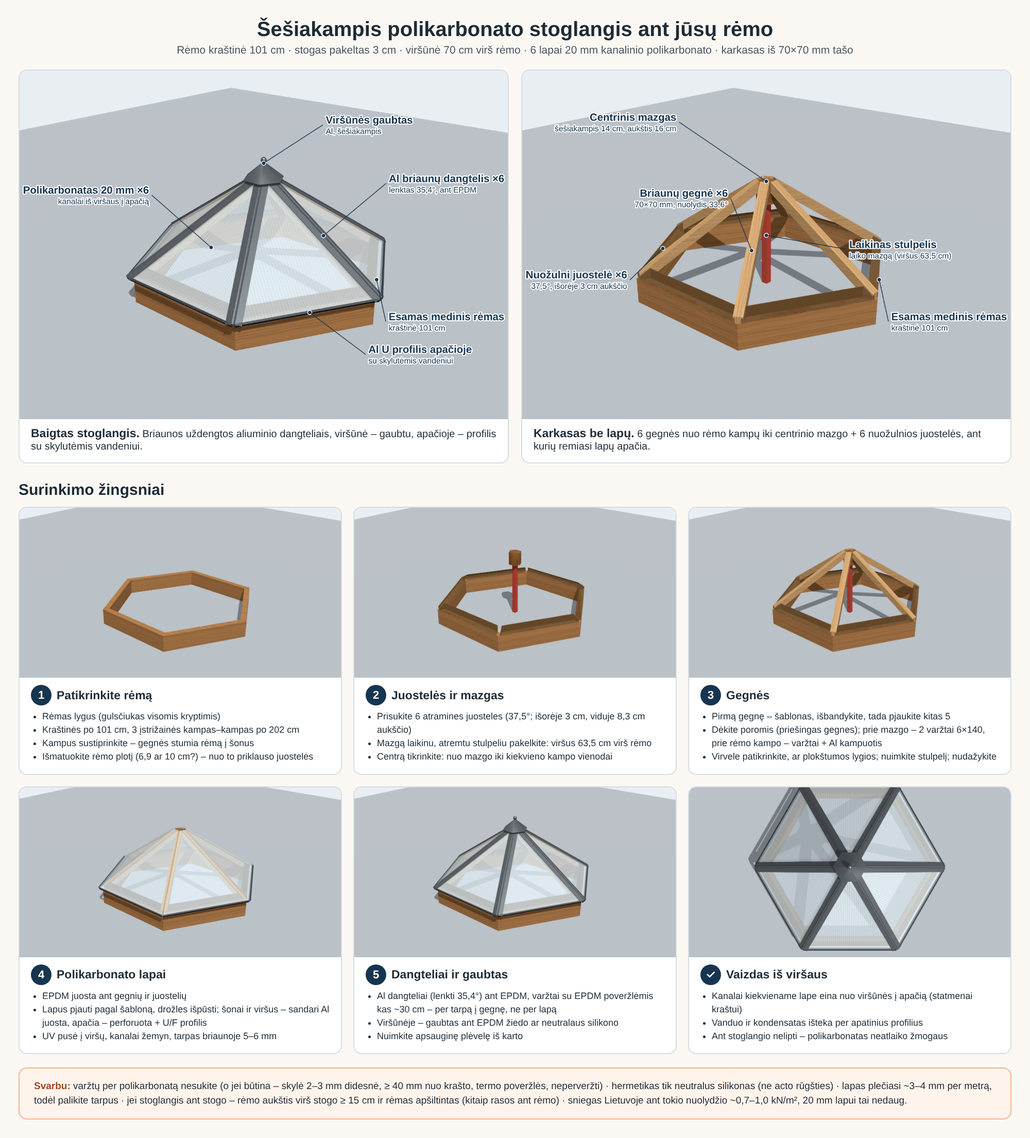
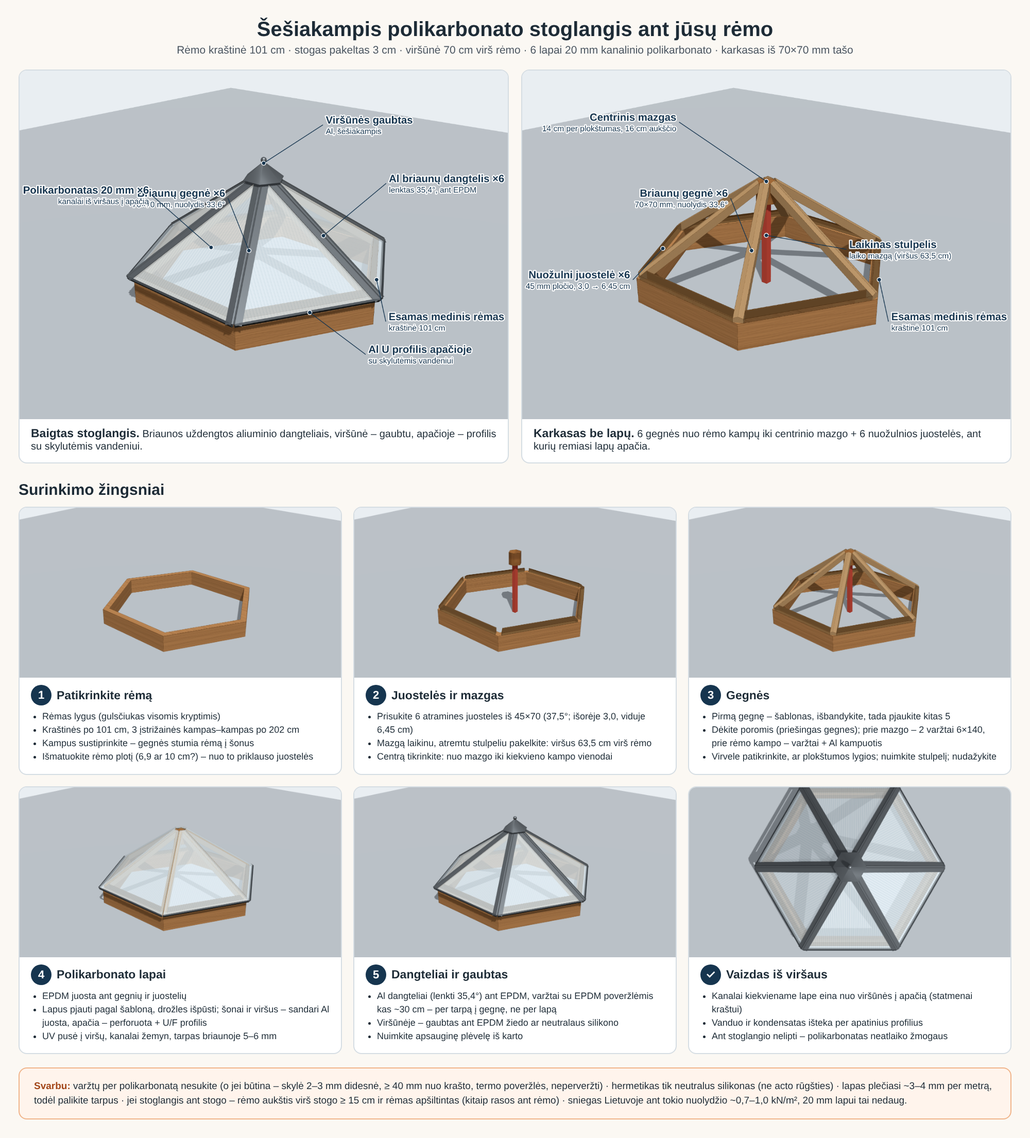
Stoglangis: patikrinta 3D modeliu, mazgai iš arti, pirkinių sąrašas, ataskaita
Claude-Session: https://claude.ai/code/session_01NZt1Gnh6jbXepyZAwSUY5b

diff --git a/reports/Šešiakampis polikarbonato stoglangis.md b/reports/Šešiakampis polikarbonato stoglangis.md
@@ -1,0 +1,185 @@
+# Pakelta 3 cm plokštuma sutvarko šešiakampį stoglangį
+
+Stoglangį statykite kaip šešių briaunų piramidę. Šešios obliuotos 70×70 mm briaunų gegnės, kurių nuolydis **33,56°**, o viršus nusklembtas po **17,7°** į abi puses, remiasi į šešiakampį centrinį mazgą (14 cm per plokštumas, 16 cm aukščio). Visa lakštų apačios plokštuma pakeliama **3 cm** virš esamo rėmo. Šis vienas sprendimas leidžia 70×70 gegnei atsisėsti 6,1 cm ilgio gulsčiu pjūviu tiksliai ant rėmo kampo, be gilios išpjovos, o karnizo atrama tampa paprasta trapecine juostele iš 45×70 lentjuostės (45 mm pločio, 3,0 cm išorėje, 6,45 cm viduje). Plokštumų nuolydis yra **37,45°**. Lakštai – šeši lygiašoniai trikampiai (pagrindas **104,5 cm**, aukštinė **114,0 cm**, šoninės **125,4 cm**), kanalai eina išilgai aukštinės, UV pusė nukreipta į išorę. Visi šeši trikampiai telpa viename 2100×6000 mm lakšte (3 eilės po 2 trikampius, sunaudojama ~3,42 m ilgio), todėl užtenka **vieno lakšto už ~327,79 €**. Kadangi kanalai eina išilgai aukštinės, kiekvieno kanalo viršutinis galas baigiasi įstrižame briaunos pjūvyje. Todėl briaunos ir viršūnė užklijuojamos kieta aliuminio juosta. Kvėpuojančią juostą su aliuminio U/F profiliu ir drenažo skylutėmis gauna tik pagrindas. Lakštas niekur negręžiamas: jį prispaudžia 35,4° kampu sulenkti aliuminio briaunų dangteliai ant EPDM, prisukti per 5–6 mm tarpą tarp lakštų į gegnes, o viršūnę dengia ~Ø32 cm šešiakampis gaubtas, prisuktas į mazgą. Lakštų apačia viršūnėje bus **70 cm** virš rėmo, ne 67 cm, bet kampai lieka tokie, kokių norėjote. Jei 67 cm būtina, kampai pasikeičia ~1°. Sniego apkrova tokiam nuolydžiui – **0,72 kN/m² (I zona) arba 0,96 kN/m² (II zona)**, todėl tarpinių gegnių nereikia. Silpniausia vieta yra rėmo kampai: gegnės juos stumia į išorę 0,3–0,5 kN jėga. Prieš pirmą pjūvį būtina permatuoti rėmo plotį: iš matmenų 101/93 cm išeina 6,9 cm, o jūs rašėte 10 cm.
+
+> **Apie šaltinius ir skaičius.** Tyrimo metu tiesioginis puslapių atidarymas buvo užblokuotas (e-plastena.lt, plaskolite.com, palram.com, brettmartin.com, YouTube ir kt.). Todėl **visi čia cituojami žiniatinklio šaltiniai matyti tik per paieškos rezultatų ištraukas (snippets), o ne perskaityti visi**. Kainas, likučius, profilių matmenis, garantiją ir normų reikšmes prieš perkant patikrinkite patys. Visi geometrijos dydžiai (kampai, ilgiai, pjūviai) perskaičiuoti savarankiškai ir sutikrinti dviem būdais. Kur skaičius yra mūsų skaičiavimas ar išvada, o ne šaltinio teiginys, tai pasakyta tekste.
+
+## Trys centimetrai pakėlimo pasodina gegnę tiksliai ant rėmo
+
+Rėmą laikome taisyklingu šešiakampiu. Išorinė kraštinė 101 cm kartu yra ir apibrėžtinio apskritimo spindulys R. Išorinė apotema lygi 87,47 cm, vidinė kraštinė – 93 cm. Iš to išeina, kad rėmo sienelės plotis statmenai kraštinei yra **6,93 cm**, o kampe, išilgai įstrižainės, – 8 cm. Jūsų „briaunos kampas ~33°“ yra būtent briaunos gegnės nuolydis: tan = 67/101, taigi **33,56°**. Plokštumos (trikampio) nuolydis skaičiuojamas iki apotemos: tan = 67/87,47, taigi **37,45°**. Vadinasi, lakštai bus statesni už briaunas. Nusklembimo kampą duoda bendroji formulė tan β = sin(briaunos nuolydis) / tan(plano kampas) ([Raftertools](http://raftertools.com/TimberFraming/Angles/c5.html); [SBE Builders daugiakampių gegnių lentelės](https://www.sbebuilders.com/tools/rafter-tables/Polygon_Rafter_Tables.pdf)). Šešiakampio plano kampas tarp briaunos ir karnizo yra 60°, todėl β = atan(0,5528/1,732) = **17,70°**. Iš čia dvisienis kampas tarp gretimų plokštumų yra 180° − 2·17,7° = **144,6°**, o dangtelio lenkimo kampas – **35,4°**. Abu skaičius dar patikrinome per plokštumų normalių vektorius. Briaunos linija nuo išorinio rėmo kampo iki viršūnės yra **121,2 cm**, plokštumos aukštinė nuo karnizo vidurio iki viršūnės – **110,2 cm**. Viena praktinė pastaba (mūsų išvada): amerikietiško stalių kampainio skalė „HIP/VAL“ ir „17 colių“ briaunos žingsnis skirti stačiakampiams stogo kampams. Šešiakampiui jie netinka, todėl kampus nustatykite tiesiogiai laipsniais.
+
+Kampai patys nepasako, kur gegnė guli. Visi aukščiau pateikti dydžiai aprašo atskaitos plokštumą P, t. y. lakštų apačią. Ji eina per nusklembtų gegnių keterą ir karnizo juostelių nuožulnas. Jei P karnizo linija sutaptų su rėmo viršumi, 70 mm gegnė turėtų įsirėžti į rėmą gilia išpjova. Praktikai įspėja, kad ilgai į vidų išvestas atraminis pjūvis skelia gegnę ([GreenBuildingAdvisor](https://www.greenbuildingadvisor.com/question/hip-rafter-confusion)). Be to, briaunos aukštis virš atramos turi atitikti plokštumų aukštį, kitaip plokštumos nesusilygina ([ContractorTalk](https://www.contractortalk.com/threads/hips-and-valleys.61506/)). Todėl visa plokštuma pakeliama **h0 = 3 cm**. 70×70 gegnės vertikalus aukštis yra 7/cos 33,56° = **8,4 cm**. Jos apatinė briauna pasiekia rėmo viršų ties **92,9 cm** spinduliu, t. y. praktiškai ties vidiniu rėmo kampu (93 cm). Gulsčias atraminis pjūvis eina nuo 92,9 iki 99 cm spindulio, taigi yra **6,1 cm ilgio** ir visas guli ant rėmo. Ties vidiniu kampu gegnė lieka viso aukščio: jos šonai ties vidiniais rėmo kraštais yra dar 12 mm virš rėmo. Uodegos pjūvis ties **99 cm** parinktas sąmoningai. Būtent ten gegnės šoninės plokštumos kerta išorinius rėmo kraštus (40,4 mm nuo kampo), todėl gegnės galas ir abiejų gretimų juostelių išoriniai kampai susitinka viename taške. Taip po lakštu susidaro uždaras perimetras. Plokštuma P ties uodega yra 4,3 cm aukštyje (tai ir yra uodegos vertikalaus pjūvio aukštis), o ties rėmo išoriniu kraštu – 3,0 cm (juostelės išorinis aukštis). Kaina už visa tai – lakštų apačia viršūnėje pakyla iki **70 cm** virš rėmo. Kampai nesikeičia.
+
+Jei bendras 67 cm aukštis yra principinis, kilimą sumažinkite iki 64 cm, o h0 = 3 cm palikite. Logika išlieka ta pati, tik kampai pasikeičia apie 1° (žr. lentelę; mūsų skaičiavimas). Su 70×95 gegne konstrukcija irgi veikia, bet tai jau kitas pjovimo sąrašas. Jos vertikalus aukštis 11,4 cm, todėl esant h0 = 3 cm ji ties vidiniu kampu kirstų rėmą apie 3 cm gylio. Tada reikia arba V formos išpjovos aplink vidinį kampą, arba h0 ≈ 5 cm (juostelė apie 5/10 cm, viršūnė apie 72 cm). Paprasčiausias derinys lieka **70×70 ir 3 cm**. Toliau visoje ataskaitoje naudojamas pagrindinis projektas.
+
+| Dydis | Pagrindinis projektas (viršūnė 70 cm) | Variantas (viršūnė 67 cm) |
+|---|---|---|
+| Kilimas nuo karnizo linijos iki viršūnės | 67 cm | 64 cm |
+| Briaunos nuolydis | 33,56° | 32,36° |
+| Plokštumos nuolydis | 37,45° | 36,19° |
+| Nusklembimas (kiekvienai pusei) | 17,7° | 17,2° |
+| Dvisienis / dangtelio lenkimo kampas | 144,6° / 35,4° | 145,7° / 34,3° |
+| Gegnės keteros / apatinės briaunos ilgis | 110,4 / 103,0 cm | 108,9 / 101,4 cm |
+| Atraminis pjūvis / uodegos aukštis | 6,1 / 4,3 cm | 6,3 / 4,3 cm |
+| Juostelė (45 mm pločio, bet kokiam rėmui) | 3,0 / 6,45 cm | 3,0 / 6,3 cm |
+| Mazgo viršus ne aukščiau kaip | 63,8 cm (daryti 63,5) | 61,1 cm (daryti ~60,8) |
+| Lakšto aukštinė / šoninė | 114,0 / 125,4 cm | 112,1 / 123,7 cm |
+
+## Šešios 70×70 gegnės ir šešiakampis mazgas sudaro visą karkasą
+
+### Gegnės skerspjūvį lemia lakšto atrama, ne stiprumas
+
+Mūsų konservatyviu skaičiavimu net 45×70 gegnė būtų apkrauta vos ~3,3 MPa, o 70×70 – ~2,1 MPa. Taigi stiprumas skerspjūvio nelemia. Jį lemia plotis, ant kurio turi atsiremti du 20 mm lakštai. Birchwood P501 sistema skirta 50 mm pločio gegnėms, o briaunoje gamintojas rekomenduoja 60 mm gegnę ([Birchwood P501](https://www.birchwoodtrading.co.uk/SiteDownloads/Rafter%20Glazing%20Bar%20Systems/P501%20Rafter%20Glazing%20Bar%20System/P501%20System%20Installation.pdf)). Palram reikalauja bent **20 mm** lakšto užlaidos ant atramos, kai lakštas iki 1,0 m pločio, ir 25–30 mm, kai platesnis ([Palram SUNLITE montavimo vadovas](https://www.eplastics.com/pdf/multiwall_Installation_manual.pdf)). Ant 70 mm gegnės kiekvienam lakštui tenka 35 mm minus 3 mm tarpas, t. y. **~32 mm** atramos. To pakanka ir EPDM juostai, ir dangtelio varžtų linijai. 45 mm gegnė dviem 20 mm lakštams per siaura. Rinkitės kameroje džiovintą, obliuotą C24/KVH spygliuočių medieną. Tinka vario pagrindo impregnantais apdorota pušis (pvz., Wolmanit CX, NTR A klasė, skirta lauko sąlygoms ([EPD](https://environdec.com/library/epd31829))) arba maumedis. Visas plokštumas, ypač galų medieną, nudažykite dar prieš stiklinimą.
+
+Gegnę darykite tokia tvarka. Pirmiausia nusklembkite visą ruošinį: diskinės staklės, 17,7° pakreiptas diskas, gegnė guli ant šono, o po pirmo praėjimo apverčiama galais. Centre lieka ketera, o šonų viršutinės briaunos būna **11 mm žemiau** keteros (matuojant statmenai viršui). Rankinis būdas – nubrėžti centro liniją ir 11 mm žymes ant šonų, tada nuobliuoti elektriniu obliumi. Antras žingsnis – abu galiniai vertikalūs pjūviai, abu lygiagretūs. Skersavimo staklėse nustatykite **33,6° pasukimą nuo statmens**, tada pjūvis su gegnės briauna sudaro 56,4°. Gegnę guldykite ant šono, plokščia apatine plokštuma prie atramos, ne nusklembta viršutine (mūsų patarimas). Atstumas tarp pjūvių išilgai keteros – **110,4 cm**, išilgai apatinės briaunos kontrolinis matmuo – **103,0 cm**. Prieš tai patikrinkite, ar jūsų staklės perpjauna 70 mm aukštį. Trečias žingsnis – atraminis pjūvis. Ant uodegos vertikalaus pjūvio pažymėkite **4,3 cm** žemyn nuo keteros (ant šono tai apie 3,0 cm nuo nusklembtos briaunos). Iš ten išveskite gulsčią liniją, statmeną vertikaliam pjūviui, iki taško, esančio 103,0 cm nuo mazgo galo išilgai apačios. Šis 6,1 cm pjūvis yra 56,4° nuo statmens, o tiek dauguma skersavimo staklių nepasuka, todėl jį pjaukite rankiniu pjūklu. Ruošinys – **120 cm** (pati detalė užima 112,8 cm). Rusų pavėsinių statytojai pataria detales pirmiausia sumatuoti ir pritaikyti ant žemės ([kak-svoimi-rukami](https://kak-svoimi-rukami.com/2017/09/shestigrannaya-besedka-na-dache-svoimi-rukami-podrobnye-chertezhi/)). Todėl pirmiausia padarykite vieną bandomąją gegnę, pritaikykite ją vietoje ir naudokite kaip šabloną likusioms penkioms.
+
+### Centrinis mazgas: 14 cm per plokštumas, viršus 63,5 cm virš rėmo
+
+Mazgas būtinas. Be jo šešios gegnės viršūnėje turėtų susitikti dvigubais sudėtiniais pjūviais (25,7° viršutinėje plokštumoje ir 60° efektyvus nuožulnumas), o tokių įprastos staklės nepadaro (mūsų skaičiavimas). Su mazgu kiekviena gegnė baigiasi vienu paprastu vertikaliu pjūviu. Taip daroma ir pavėsinėse. Rusų statytojas naudojo 200×120×120 mm šešiakampę prizmę, o gegnes prie jos tvirtino savos gamybos cinkuotos skardos plokštelėmis ([kak-svoimi-rukami](https://kak-svoimi-rukami.com/2017/09/shestigrannaya-besedka-na-dache-svoimi-rukami-podrobnye-chertezhi/)). Amerikiečių gidai mazgą iš pradžių laikinai iškelia centre ir tik tada prie jo veda gegnes ([decks.com](https://www.decks.com/how-to/articles/how-to-build-a-gazebo)). Gamyklinė Simpson GT6Z jungtis skirta 2x (38 mm) gegnėms ([Toolnut](https://www.toolnut.com/products/simpson-strong-tie-gt6z-gt-zmax-galvanized-18-gauge-gazebo-tie-for-6-2x-rafters-center)), todėl 70 mm gegnėms netiks.
+
+Mūsų mazgas – šešiakampis tašelis: **14 cm per plokštumas**, plokštumos plotis **8,1 cm**, per kampus 16,2 cm, aukštis **16 cm**. Plokštumos atsuktos į gegnes. Mazgo viršus turi būti **63,5 cm** virš rėmo. Jo kampai rodo žemyn plokštumų kritimo linijomis, o ten plokštuma P yra 63,8 cm aukštyje. Jei mazgas būtų aukščiau, jo kampai remtųsi į lakštus. Gegnės ketera mazgo plokštumą pasiekia 65,4 cm aukštyje, apačia – 57,0 cm. Taigi iš 8,4 cm vertikalaus pjūvio 6,5 cm remiasi į mazgą, o mazgas po gegnėmis kabo dar 9,5 cm žemiau. Atkreipkite dėmesį (mūsų pataisa): iš 150×150 tašo tokio šešiakampio neišeis, nes per kampus jis 16,2 cm, o iš 150×150 išeitų tik ~13 cm per plokštumas. Imkite 16 cm atraižą iš 150×200 arba 200×200 tašo, plaušais vertikaliai (tada visi varžtai eina į šoninę medieną), arba suklijuokite ruošinį iš lentų. Kiekvieną gegnę į mazgą tvirtinkite **2 varžtais 6×140**, sukamais įstrižai per gegnės viršų. Pageidautina papildomai uždėti cinkuotas plokšteles. Mazgo centre išgręžkite skylę: ji pravers svambalui, o vėliau – viršūnės gaubto varžtui.
+
+### Gegnės pėda ir rėmo kampai turi atlaikyti 0,3–0,5 kN tempimą
+
+Kiekviena gegnė atsisėda ant rėmo kampo 6,1 cm atraminiu pjūviu. Tvirtinkite 2–3 iš dalies sriegiuotais konstrukciniais varžtais Ø6–8×120–160, įstrižai iš abiejų pusių per atramos zoną, kad neskiltų uodega. Iš vidaus pridėkite briaunuotą plieninį kampuotį (bent 70×70). Ši tvirtinimo schema yra mūsų pasiūlymas, šaltinio neradome. Rusų pavėsinėse kiekviena gegnė taip pat tvirtinama ir prie viršutinio žiedo kampo, ne tik prie mazgo ([besedkis.ru](https://besedkis.ru/dlja_dachi/shestigrannaya-besedka)). Mazgas neturi atramos, todėl simetrijos dėka skersinės jėgos jis neneša. Užtat kiekviena gegnė stumia rėmo kampą į išorę jėga H ≈ **0,28 / 0,36 / 0,46 kN** (I zona / II zona / konservatyvus atvejis su pustymu). Šešiakampiame žiede kiekviena kraštinė tada tempiama tokia pat jėga (mūsų skaičiavimas). Taigi rėmo kampų jungtys turi turėti 2–4 konstrukcinius varžtus arba plieninę kampo plokštelę. Klijų ar įstrižų vinių nepakanka. Pats rėmas turi būti mechaniškai pritvirtintas prie stogo konstrukcijos, kad jo nepakeltų vėjas.
+
+### Karnizo juostelė: privaloma nuožulni atrama 45 mm pločio, 3,0 / 6,45 cm
+
+Lakšto apatinis kraštas turi gulėti ant paviršiaus, esančio lakšto plokštumoje. Aliuminio „base & cap“ sistemų vadovai, montuojant ant gegnių, nuožulnią atraminę lentjuostę įvardija kaip privalomą ([Amerilux](https://ameriluxinternational.com/wp-content/uploads/2021/pdf-downloads/install-guides/amerilux-base-cap-install-guide.pdf)). Gamykliniai stoglangiai prieš tvirtinant karnizą tikrina jo tiesumą ir kampus ([Korniche](https://www.pclbuildingproducts.co.uk/wordpress/wp-content/uploads/2025/11/Korniche-LANTERN-2-installation-guide-web.pdf)). **Rekomenduojamas variantas (koordinatoriaus pataisa, patikrinta 3D modeliu):** juostelė yra trapecijos skerspjūvio, **45 mm pločio**, išorinis kraštas sutampa su rėmo išoriniu kraštu. Aukštis išorėje **3,0 cm**, viduje 3,0 + 4,5·tan 37,45° = **6,45 cm**. Nuožulna **37,45°** – tai plokštumos nuolydis, ne briaunos. Išorinis ilgis **92,9 cm**, vidinis (45 mm į vidų) **87,7 cm**. Galai pjaunami vertikaliai, plane 60° kampu (30° nuo statmens), kad atsiremtų į gegnių šonus. Kodėl 45 mm, o ne per visą rėmo plotį: (1) juostelė išpjaunama iš paprastos 45×70 lentjuostės, nuožulnos pjūvis tik ~57 mm gylio, todėl perpjaunamas vienu praėjimu diskiniu pjūklu ar staklėmis; (2) matmenys nepriklauso nuo to, ar rėmas 6,9, ar 10 cm pločio; (3) lakštui atramos užtenka – nuožulnoje jis guli ~5,7 cm juosta. Alternatyva – juostelė per visą rėmo plotį (6,9 cm rėmui 3,0/8,3 cm, vidinis ilgis 84,9 cm; 10 cm rėmui 3,0/10,7 cm, ~81,4 cm), bet tada 69–100 mm gylio nuožulną reikia pjauti dviem praėjimais iš priešingų pusių, juostiniu pjūklu arba dirbtuvėje. Kiekvieną juostelę prisukite 3 varžtais per storesnę vidinę dalį. Tada patikrinkite liniuote nuo gegnės keteros iki juostelės nuožulnos: ji turi liesti abu paviršius ir nesvyruoti. Jei reikia pataisyti, obliuokite arba podėkite juostelę, gegnės keteros neliečiate.
+
+### Tarpinių gegnių nereikia
+
+Didžiausias lakšto tarpatramis tarp dviejų gegnių yra ties karnizu, apie 1,01 m, o viršūnės link jis mažėja iki nulio. Be to, lakštas remiasi visomis trimis kraštinėmis. Rekomenduojamas didžiausias gegnių žingsnis 16 mm lakštui yra ~1050 mm, 25 mm lakštui – ~1250 mm ([The Polycarbonate Store](https://www.thepolycarbonatestore.co.uk/polycarbonate-sheet-size-rafter-spacing-recommendations/)). 20 mm lakštas patenka tarp šių reikšmių. Jei vieta labai pustoma arba ant stoglangio kas nors gali atsiremti, per kiekvienos plokštumos vidurį galima įstatyti tarpinę gegnę. Ji eitų nuo karnizo vidurio link mazgo 37,45° nuolydžiu, su plokščiu viršumi, o viršuje atsiremtų į dvi briaunų gegnes 24,6° įstrižais pjūviais nuo savo ašies. Tokia gegnė tarpatramį sumažina perpus.
+
+## Vienas lakštas duoda šešis trikampius su kanalais išilgai aukštinės
+
+### Ką iš tikrųjų perkate
+
+e-plastena.lt prekė PLE6799 – 20 mm, 2100×6000 mm, skaidrus, „Plazit Polygal (Plaskolite)“, pagamintas Izraelyje. Lakštas sveria **3,0 kg/m²**, jo plotas **12,6 m²**, šviesos pralaidumas **55 %**, kaina **327,79 € už lakštą**, maždaug 26 €/m² ([e-plastena](https://e-plastena.lt/kanalinis-polikarbonatas/6799-kanalinis-polikarbonatas-20x2100x6000-mm-skaidrus-plaskolite-30.html); [kainos.lt](https://www.kainos.lt/paieska/polikarbonatas-2100x6000-kaina)). Skaičius „30“ adrese reiškia svorio klasę (3,0 kg/m²), ne kanalų skaičių. Taip pat žymimi ir gretimi e-plastena lakštai. 2021 m. Plaskolite susitarė perimti Plazit-Polygal veiklą ([BusinessWire](https://www.businesswire.com/news/home/20211014005373/en/Plaskolite-to-Acquire-Assets-of-Plazit-Polygal-to-Expand-in-North-America-Europe-and-South-America)). Polygal Thermogal 20 mm duomenys sutampa: ~3000 g/m², U ≈ 1,9 W/m²K, šviesos pralaidumas 55–56 % ([Plaskolite bro101](https://plaskolite.com/docs/default-source/bro/bro101_pgl_multiwall_guide.pdf)). Kad tai būtent Thermogal, yra mūsų išvada. Kanalų struktūros (kiek sienelių, X ar ne), UV pusės žymėjimo ir garantijos ištraukose nesimatė. 55 % pralaidumas yra gerokai mažesnis nei plono lakšto (4 mm – 82 %), todėl šviesa bus išsklaidyta, ne „stiklinė“.
+
+### Trikampio matmenys ir kodėl kanalai turi eiti išilgai aukštinės
+
+Kiekviena plokštuma 3 cm horizontaliai išsikiša už rėmo išorės. Tada trikampio pagrindas yra 2·90,47·tan 30° = **104,5 cm**, aukštinė **114,0 cm**, šoninės kraštinės **125,4 cm**, kampai **65,4° / 65,4° / 49,2°**. Viršūnė nupjaunama **8 cm** (skaičiuojant išilgai aukštinės) – ją uždengs gaubtas, o nupjovimo kraštas bus 7,3 cm. Šonai pjaunami **3 mm į vidų nuo linijos**, todėl ties gegne lieka 5–6 mm tarpas. Lakštų kraštai pjaunami statmenai paviršiui, o plokštumos susitinka 144,6° kampu, todėl viršuje tarpas išsiplečia iki ~19 mm. Jį uždengs dangtelis. Faktinis pagrindas po šonų nupjovimo bus ~103,8 cm. Visi šaltiniai sutaria dėl krypties. Rusų instrukcija teigia, kad piramidinėse konstrukcijose standumo briaunos turi eiti „griežtai iš viršaus į apačią“, kad pasišalintų kondensatas ([polyglass.ru](https://polyglass.ru/montazh/instruktsiya-po-montazhu-sotovogo-polikarbonata/)). Lietuviškas averto.lt draudžia horizontalius kanalus ([averto.lt](https://averto.lt/lt/averto-blogai/polikarbonatas/polikarbonato-ypatumai/)). Proplastik nurodo mažiausią 5° nuolydį ir UV sluoksnį į išorę ([Proplastik](https://e.proplastik.lt/media/import/Kanalinio-polikarbonato-savybes-montavimas-prieziura.pdf)). Iš to išplaukia svarbiausia šio stoglangio savybė (mūsų išvada). Kanalai briaunos pjūvį kerta 24,6° kampu, todėl kiekvieno kanalo viršutinis galas yra ant briaunos. Į viršūnės nupjovimą atsiremia tik keli vidurio kanalai. Taigi briaunos ir viršūnė čia yra lakšto „viršus“, o vienintelis „apačios“ kraštas yra pagrindas.
+
+### Išdėstymas lakšte: 3 eilės po 2 trikampius, ~3,42 m
+
+Kanalai eina išilgai 6 m, todėl trikampio aukštinė turi gulėti išilgai lakšto. Pasukti trikampį 180° lakšto plokštumoje galima: kanalų kryptis ir UV pusė nesikeičia. Du priešpriešiais sustatyti trikampiai 114 cm eilėje užima 1,5·104,5 = 156,7 cm iš 210 cm pločio. Trys tilptų 209 cm pločio juostoje, bet liktų vos 1 cm, o to pjūviams ir paklaidai per mažai. Todėl saugus išdėstymas – **3 eilės × 2 trikampiai**, sunaudojant **~3,42 m** lakšto ilgio. Pilnas lakštas palieka apie 2,5 m atsargą sugadintiems trikampiams pakeisti. Jei pardavėjas parduoda atpjautą gabalą, prašykite **~3,5 m**: jį lengviau ir parvežti. Visų šešių plokštumų plotas ~3,57 m², o lakštai sveria apie **11 kg**.
+
+### Pjovimas ir šiluminis plėtimasis
+
+Pjaukite diskiniu pjūklu su smulkiadančiu disku (185 mm diskui – 60 ar daugiau dantų), vedamu pagal kreipiančiąją. Lakštą paremkite iš abiejų pjūvio pusių. Atsarginis įrankis – siaurapjūklis su 10–18 TPI metalo pjūkleliu, išjungus švytuoklinį judesį ([365plastics](https://365plastics.ie/blog/post/how_to_cut_multiwall_polycarbonate_sheet/); [kastlite](https://kastlite.com/blogs/blog/how-to-cut-polycarbonate-sheets-tools-blades-and-step-by-step-methods)). Įstrižas pjūvis kanalų atžvilgiu gali įskelti pertvaras ([gcrystal-pc](https://gcrystal-pc.com/en/how-to-cut-polycarbonate-sheets/)), o čia jis neišvengiamas, todėl pjaukite tolygiai ir neskubėdami. Po pjovimo išpūskite drožles iš kanalų ir tuoj pat užklijuokite galus. Apsauginę plėvelę palikite: pjovimo linijas brėžkite ant jos, kraštuose klijavimui atplėškite ~50 mm, o likusią nuimkite iškart po montavimo. Saulėje laikoma plėvelė prikepa ir nebenusiima ([Polygal vadovas](https://www.tapplastics.com/image/pdf/polygal_mulitwall-userguide.pdf)). e-plastena pataria plėvelės montavimo pradžioje nenuimti ir laikyti lakštus patalpoje, kad kanaluose nesikauptų drėgmė ([e-plastena straipsnis](https://e-plastena.lt/straipsniai/kanalinio-polikarbonato-montavimas-b21.html)). Polikarbonatas plečiasi apie **3 mm vienam metrui per 50 °C**, o Palram pataria šią atsargą dvigubinti ([Palram SUNLITE](https://www.eplastics.com/pdf/multiwall_Installation_manual.pdf)). Lenkų gidas nurodo 3,5 mm/m ([budownictwob2b.pl](https://budownictwob2b.pl/dachy/baza-wiedzy/pokrycia-dachowe/52638-poliweglan-komorowy-zasady-prawidlowego-montazu)). Lietuvoje lakšto temperatūra svyruoja nuo −25 °C iki ~+70 °C, todėl skaičiuokite 3–4 mm/m. Trikampis plečiasi nuo savo centro į visas puses, todėl kiekviena briauna pasislenka apie 1 mm (mūsų skaičiavimas). 3 mm tarpas ties kiekviena gegne, laisva viršūnė po gaubtu ir 3–5 mm laisvumas U profilio dugne tai sugeria. Silikonu lakšto prie rėmo neklijuokite. Jei kur nors vis dėlto tektų gręžti lakštą, skylės turi būti 2–3 mm didesnės už varžtą, ne arčiau kaip 40 mm nuo krašto ir tarp pertvarų ([Proplastik](https://e.proplastik.lt/media/import/Kanalinio-polikarbonato-savybes-montavimas-prieziura.pdf); [e-plastena](https://e-plastena.lt/straipsniai/kanalinio-polikarbonato-montavimas-b21.html)).
+
+## Lakštas negręžiamas: jį laiko dangteliai, gaubtas ir karnizo profilis
+
+### Briaunų dangteliai: 35,4° lenkta aliuminio skarda ant EPDM
+
+Gamyklinė praktika yra dviejų dalių briaunos profilis. Ant medinės gegnės dedama pagrindo tarpinė, lakštai guldomi su tarpu virš gegnės centro, o iš viršaus prisukamas aliuminio dangtelis su EPDM tarpinėmis. Sunwood briaunos profilis tvirtinamas maždaug kas 300 mm ([TrulyPVC Sunwood](https://www.trulypvc.com/conservatory-parts/conservatory-roof-bars/screw-down-bars/sunwood-screw-down-glazing-hip-bar)). Birchwood įspėja, kad per stipriai priveržtas dangtelis banguoja, riboja plėtimąsi ir spaudžia lakštą ([Birchwood P501](https://www.birchwoodtrading.co.uk/SiteDownloads/Rafter%20Glazing%20Bar%20Systems/P501%20Rafter%20Glazing%20Bar%20System/P501%20System%20Installation.pdf)). JK parduodamas gatavas 60 mm Alukap-XR briaunos profilis su „pinnacle“ viršūnės gaubtu piramidiniams stoglangiams ([Clear Amber](https://clearambershop.com/en-us/products/alukap-xr-60mm-hip-bar)). Lietuvoje 20 mm lakštui skirto briaunos ar reguliuojamo kampo kraigo profilio neradome, o e-plastena W kraigo profilis skirtas tik 6 mm lakštui ([e-plastena priedai](https://e-plastena.lt/947-kanalinio-polikarbonato-priedai)). Todėl dangtelius gaminkite patys arba užsakykite skardininkui. Imkite 1–1,5 mm aliuminio juostą, 100–120 mm pločio, ~110 cm ilgio (nuo vietos po viršūnės gaubtu iki karnizo kampo, tikslų ilgį pritaikykite vietoje). Ją sulenkite per vidurį **35,4°** kampu, kad lentynos (~50 mm) tarpusavyje sudarytų 144,6°. Po lentynomis priklijuokite EPDM juostą. Varžtai – nerūdijantys (A2/A4), ploni (Ø4,2–4,8×70), su EPDM poveržlėmis, kas **~30 cm**, t. y. 4 vienai briaunai. Jie sukami per tarpą tarp lakštų į gegnės keterą, statmenai jai, iš anksto išgręžus skylę tiksliai per centrą. **Niekada per lakštą.** Varžtas eina per 20 mm tuštumą, todėl priveržkite tik tiek, kad EPDM susispaustų. Kitaip skarda įlinks ir dangtelis banguos (mūsų išvada pagal Birchwood įspėjimą).
+
+### Juostos: kieta aliuminio ant briaunų ir viršūnės, kvėpuojanti ant pagrindo
+
+Standartinė taisyklė: ant viršutinių kanalų galų klijuojama kieta (nepralaidi) aliuminio juosta, ant apatinių – kvėpuojanti „antidust“ juosta. Jei abu galai vėdinami, prastėja izoliacija ([AC Plastics/UACI](https://www.acplasticsinc.com/media/documents/UACI_140008_Multiwall_Polycarbonate_Installation_Guide_HR.PDF); [Multifoil](https://www.multifoil.com/en/tapes-for-building-and-construction/antidust-tape-for-multiwall-sheets/)). Šiame stoglangyje „viršus“ yra briaunos ir viršūnė, todėl jas užklijuokite **kieta 50–60 mm aliuminio juosta**, užlenkta ant abiejų paviršių. Pagrindą užklijuokite kvėpuojančia juosta. e-plastena kvėpuojančių juostų turi 25–60 mm pločio: 38 mm × 25 m kainuoja 16,94 €, 60 mm × 50 m – 43,56 € ([kaina24](https://www.kaina24.lt/s/polikarbonato-sandarinimo-juosta/)). 20 mm kraštui 38 mm juostos per mažai, nes kiekvienam paviršiui liktų tik ~9 mm. 60 mm juosta duoda ~20 mm. Kietos aliuminio juostos e-plastena ištraukose nesimatė, ją teks pirkti kitur.
+
+### Viršūnės gaubtas: Ø~32 cm, prisuktas į mazgą
+
+Dekoratyvinių stogo antgalių tiekėjas įspėja, kad gaubtas nėra hidroizoliacija: stogas turi būti užsandarintas po juo ([Ferro Weathervanes](https://ferroweathervanes.com/installing-roof-finials-or-roof-caps/)). Gamykliniuose piramidiniuose stoglangiuose dangteliai uždedami paskutiniai ([Brett Martin TB431](https://www.brettmartin.com/docs/default-source/daylight-systems-documents/technical-documents/tb431-installation-brett-martin-roof-lantern.pdf)). Todėl lakštų viršūnes pirmiausia užklijuokite kieta juosta, o ant lakštų uždėkite EPDM putų žiedą arba neutralaus silikono juostą. Tada uždedamas šešiakampis aliuminio gaubtas, **~32 cm per kampus**, kurio briaunos guli virš gegnių. Gaubtą galima pasidaryti patiems: tai sumažinta pati piramidė (mūsų skaičiavimas). Ją sudaro šeši trikampiai: pagrindas 16 cm, aukštinė 17,5 cm, šoninė 19,2 cm, viršūnės kampas 49,2°. Išklotinė iš 19,2 cm spindulio skritulio apima 295,5°. Prie paskutinės briaunos palikite ~2 cm užleidimą, penkias linijas sulenkite po 35,4° ir siūlę sukniedykite. Gaubtas dengia lakštų viršūnes ~9,5 cm, o briaunų dangtelių viršutinius galus – ~4 cm. Jį tvirtinkite per centrą į mazgą: nerūdijančiu 6×160 varžtu su EPDM poveržle arba į mazgą įsuktu M6 sriegiuotu strypu su gaubtine veržle. Tam ir praverčia mazgo centrinė skylė. Gaubto kraštas turi „plaukti“, kad po juo lakštai galėtų plėstis.
+
+### Karnizas: 3 cm užlaida, U/F profilis ir drenažo skylutės
+
+Ant pagrindo krašto ant kvėpuojančios juostos užmaunamas aliuminio U arba F profilis. Jo dugne gręžiamos 3–6 mm drenažo skylutės kas ~30 cm, t. y. 3 vienai plokštumai. AC Plastics nurodo ~3 mm skyles kas ~300 mm ([AC Plastics](https://www.acplasticsinc.com/media/documents/Installation%20Guide.pdf)). e-plastena turi aliuminio F profilį 20 mm lakštui (PLE6406, 6320 mm, 19,12 €), bet ištraukoje jis pažymėtas „Išparduota“ ([e-plastena F20](https://e-plastena.lt/kanalinio-polikarbonato-priedai/6406-polikarbonato-uzbaigimo-profilis-f-20x6320-mm-aliuminis.html)). 20 mm U profilio jų sąraše neradome, nes plastena.lt U ir F profiliai baigiasi 16 mm ([plastena.lt](https://plastena.lt/lt/produktai/plastikai/konstrukciniai-plastikai/polikarbonatas-pc/kanalinio-polikarbonato-pc-priedai/)). Šešiems ~1,0 m pagrindams teoriškai užtenka vieno 6,32 m ilgio, bet atsarga tik 8 cm, todėl imkite du. Jei F profilio ilgoji lentyna siekia juostelę (≥ ~5 cm), ją galima prisukti prie juostelės po lakštu. Tada ji kartu prispaudžia karnizą ir lakšto nepraduria. Jei lentyna trumpesnė, apsiribokite U profiliu, o lakštą laikys briaunų dangteliai (mūsų išvada). 3 cm užlaida neviršija rekomenduojamos: Clear Amber nurodo ~40 mm ([Clear Amber](https://www.clearamber.com/news/132/How-to-Install-Polycarbonate-Sheets-with-Snapa-Glazing-Bars.html)), o kiti šaltiniai leidžia ne daugiau kaip 75 mm ([Onduline](https://us.onduline.com/en/diy/planning/news/news/how-install-multiwall-polycarbonate-panels-roofing)). Lašai krenta už rėmo apskardinimo. Lataką ant tokio mažo ir stataus stogelio statyti nebūtina, o žiemą jis tik užšaltų (mūsų vertinimas).
+
+### Sandarikliai: tik neutralus silikonas, ir ne ant EPDM
+
+Polikarbonatui tinka tik neutralios vulkanizacijos silikonas. Acetoksinis (actu kvepiantis) silikonas kietėdamas išskiria acto rūgštį ir sukelia įtrūkinėjimą, drumstėjimą ir „crazing“ ([engineerfix](https://engineerfix.com/what-sealant-is-safe-for-polycarbonate/)). Soudal Silirub PC deklaruojamas kaip nesukeliantis įtempių įtrūkimų. Tačiau ir Soudal, ir Wacker įspėja, kad kontaktas su plastifikatorius išskiriančiomis gumomis (EPDM, neopreno, butilo) gali pakeisti silikono spalvą ir susilpninti sukibimą ([Soudal Silirub PC](https://media.trulypvc.com/pdfs/Soudal%20Silirub%20PC%20-%20Technical%20Data%20Sheet.pdf); [Wacker](https://www.wacker.com/h/en-us/c/lucky-silicone-lc-798/p/000002183)). Todėl EPDM naudokite kaip spaudžiamą sandariklį, o silikoną – tik kaip papildomą siūlę ant metalo ar polikarbonato. Silikonas niekada neturi patekti į kanalus ([PolycarbonateStore](https://www.polycarbonatestore.com/pages/how-to-install-multi-wall-polycarbonate-panels)). Tarp juostelės ir lakšto geriausia dėti EPDM porolono stiklinimo juostą: ji leidžia lakštui slysti. Lakštą valykite muiluotu vandeniu, ne acetonu.
+
+## Kondensatą valdo kanalų kryptis, juostos ir šiltas rėmas
+
+Kondensatas būna dvejopas. Ant vidinio lakšto paviršiaus jis atsiranda dėl patalpos drėgmės ir šalto paviršiaus, todėl sprendžiamas vėdinimu. Kanalų viduje jis dažniausiai atsiranda tada, kai drėgmė patenka pro blogai užsandarintus galus ([PolycarbonateX](https://polycarbonatex.co.uk/blogs/news/how-to-stop-condensation-in-multiwall-polycarbonate-roofing-sheets-complete-guide)). Polikarbonatas šiek tiek praleidžia vandens garus, todėl tam tikras kondensatas kanaluose net ir gerai įrengus yra normalus. Multifoil bandymai parodė, kad abiejų galų užsandarinimas jo nesustabdo ([antidusttape.com](https://www.antidusttape.com/faq/)). Šiame stoglangyje visi kanalai nuteka į šešis karnizus. Viršuje juos uždaro kieta juosta, apačioje kvėpuojanti juosta ir drenažo skylutės išleidžia vandenį. Lakštus pjaukite ir klijuokite sausą dieną, o iki tol laikykite patalpoje. 20 mm lakšto U = 1,6–1,9 W/m²K ([Plaskolite](https://plaskolite.com/docs/default-source/bro/bro101_pgl_multiwall_guide.pdf); [Ultraplast](https://ultraplast.lv/shop/multiwall-polycarbonate-sheet/multiwall-pc-20mm-7h-opal-(2.8)-full-size)), todėl esant −10 °C lauke vidinis paviršius bus apie 13 °C. Mūsų įvertinimu, rasoti jis pradės, kai patalpos santykinė drėgmė viršys ~55–60 %. Virš vonios, virtuvės ar džiovyklos reikės ištraukimo. Gamintojai reikalauja bent **150 mm** aukščio pakylos virš stogo, o stogo danga turi dengti apšiltintos pakylos šonus ir viršų ([Brett Martin TB431](https://www.brettmartin.com/docs/default-source/daylight-systems-documents/technical-documents/tb431-installation-brett-martin-roof-lantern.pdf)). Jei rėmas stovi ant stogo, apšiltinkite jį (pvz., 30–70 mm PIR/XPS, kaip [BuildHub](https://forum.buildhub.org.uk/topic/26805-skylight-upstands/) forume), o lakšto užlaida tegul dengia apskardinimą kaip antroji skarda. Ant 37,5° nuolydžio kondensatas bėga lakšto apačia iki juostelės. Ant vidinio rėmo krašto verta numatyti nedidelę lašėjimo briauną. Metalines detales (dangtelius, profilius) laikykite tik išorėje, nes jos yra šalčio tiltai.
+
+## Sniegas lieka žemiau 1 kN/m², o silpniausia vieta – rėmo kampai
+
+Lietuvoje charakteristinė sniego apkrova ant žemės yra **1,2 kN/m² (I zona)** arba **1,6 kN/m² (II zona)**. Viename šaltinyje Vilniaus, Utenos ir Telšių apskritys priskiriamos II zonai ([profa.lt](https://www.profa.lt/paprastai-ir-aiskiai-apie-sniego-apkrova)). Tačiau Vilniaus miesto dokumente Vilnius priskirtas I regionui su 1,2 kN/m² ([vilnius.lt](https://vilnius.lt/rest//assets/ff68c3b3-ef5f-4d4b-938b-e1f657897fac)). Šis prieštaravimas neišspręstas, todėl saugiau skaičiuoti pagal II zoną. Šlaitiniam stogui, kurio nuolydis 30–60°, formos koeficientas μ1 = 0,8·(60 − α)/30 ([StructuralBasics](https://structuralbasics.com/how-to-calculate-the-snow-load-of-a-pitched-roof/); [EN 1991-1-3](https://www.phd.eng.br/wp-content/uploads/2015/12/en.1991.1.3.2003.pdf)). Esant 37,45° jis lygus **0,60**, todėl stogo sniegas yra **0,72 kN/m²** (I zona) arba **0,96 kN/m²** (II zona) plane. Su 1,5 dalinio koeficientu tai 1,08 / 1,44 kN/m², o visam 2,65 m² planui – apie 1,9 / 2,5 kN (iki ~260 kg). Standartas atnaujinamas: LST EN 1991-1-3:2025 projektas buvo viešai svarstomas 2026 m. gegužės–liepos mėn. ([LSD](https://projektai.lsd.lt/lt/standartu/eurokodas-1-poveikiai-konstrukcijoms-1-3-dalis-sniego-apkrovos-1)). Pustant vėjas gali nupūsti sniegą nuo priešvėjinių plokštumų ir sukrauti jį ant pavėjinių. Būtent tam skirtos pasirinktinės tarpinės gegnės. Lakštui pavojus mažas, nes didžiausias į trikampį įbrėžtas apskritimas yra tik ~67 cm skersmens. 16 mm lakštams prie 160 kg/m² lentelės leidžia 0,9–1,15 m tarpatramius ([belpolik.by](https://belpolik.by/articles/obreshyotka-pod-polikarbonat)). 20 mm lakšto lentelės neradome. Lietuviškos bazinės vėjo greičio reikšmės taip pat neradome, todėl vėjo siurbimo nesuskaičiavome. Vis dėlto vien lakštai su dangteliais sveria tik ~0,1 kN/m², todėl pakėlimui priešinasi tik mechaniniai ryšiai: dangteliai kas 30 cm, gegnių kampuočiai ir rėmo tvirtinimas prie stogo. Stoglangis **nevaikščiojamas**. HSE įspėja, kad stoglangiai yra trapūs ir per juos krentama dažnai ([HSE](https://www.hse.gov.uk/agriculture/experience/falls-rooflight.htm)). Dirbkite nuo kopėčių ar paklotų lentų ant pagrindinio stogo ir neklūpokite ant lakštų. Esant 37,5° nuolydžiui sniegas nuslys luitais, todėl pasižiūrėkite, kas yra apačioje.
+
+## Pjovimo sąrašas: šeši trikampiai, šešios gegnės, šešios juostelės ir vienas mazgas
+
+| Detalė | Kiekis | Medžiaga / ruošinys | Galutiniai matmenys ir pjūviai |
+|---|---|---|---|
+| Briaunų gegnė | 6 | Obliuotas 70×70 C24/KVH, ruošinys 120 cm (+1 bandomajai) | Keteros ilgis 110,4 cm (nuo mazgo plokštumos ties 7 cm spinduliu iki uodegos ties 99 cm), apatinės briaunos 103,0 cm. Viršutinis vertikalus pjūvis – 33,6° nuo statmens skersavimo staklėse (56,4° iki briaunos). Uodegos vertikalus pjūvis – lygiagretus, 4,3 cm aukščio. Gulsčias atraminis pjūvis 6,1 cm. Nusklembimas po 17,7° į abi puses, kraštai 11 mm žemiau keteros |
+| Centrinis mazgas | 1 | 16 cm atraiža iš 150×200 ar 200×200, plaušai vertikalūs (iš 150×150 neišeis) | Šešiakampis 14 cm per plokštumas (plokštuma 8,1 cm, per kampus 16,2 cm), 16 cm aukščio. Viršus 63,5 cm virš rėmo (ne aukščiau 63,8). Centre skylė. Plokštumos atsuktos į gegnes |
+| Karnizo juostelė | 6 | Obliuota lentjuostė 45×70 | Trapecija: plotis 4,5 cm, aukštis 3,0 cm išorėje ir 6,45 cm viduje, nuožulna 37,45°. Išorinis ilgis 92,9 cm, vidinis 87,7 cm, galai 30° nuo statmens. Išorinis kraštas – lygiai su rėmo išoriniu kraštu |
+| Polikarbonato trikampis | 6 | 1 lakštas 20×2100×6000, 3 eilės × 2 | Pagrindas 104,5 cm, aukštinė 114,0 cm, šoninės 125,4 cm, kampai 65,4°/65,4°/49,2°. Viršūnė nupjaunama 8 cm, šonai 3 mm į vidų nuo linijos. Kanalai lygiagretūs aukštinei, UV pusė į viršų |
+| Briaunos dangtelis | 6 | Al juosta 1–1,5 mm, 100–120 mm pločio | ~110 cm (pritaikyti vietoje), sulenkta 35,4°, lentynos ~50 mm |
+| Viršūnės gaubtas | 1 | Al lakštas 1–1,5 mm, ~40×40 cm | 6 trikampiai: pagrindas 16 cm, aukštinė 17,5 cm, šoninė 19,2 cm. Išklotinė 295,5°, +2 cm užleidimas, lenkimai po 35,4°; Ø~32 cm per kampus |
+| Laikinas stovas | 1 | 45×45 arba 70×70 + 2 atotampos | Ilgis = grindys iki rėmo viršaus + 47,5 cm (mazgo apačia) |
+| Tarpinė gegnė (nebūtina) | 0–6 | 45×70 | 37,45° nuolydis, plokščias viršus, 24,6° įstrižai pjūviai prie briaunų; pritaikyti vietoje |
+
+## Pirkinių sąrašas: vienas lakštas ir saujelė priedų
+
+| Prekė | Kiekis | Pastaba / kaina (pagal ištraukas) |
+|---|---|---|
+| Kanalinis polikarbonatas 20×2100×6000 skaidrus Plaskolite (e-plastena PLE6799) | **1 lakštas** (arba ~3,5 m atraiža) | 327,79 € už lakštą; patikrinti likutį, PVM, ar pjausto |
+| Aliuminio F profilis 20 mm, 6320 mm (PLE6406) arba Al U profilis 20 mm | 2 vnt. | 19,12 €/vnt., ištraukoje „išparduota“; patikrinti lentynos ilgį |
+| Kvėpuojanti (antidust) juosta, 60 mm | ~7 m (rulonas 60 mm × 50 m) | 43,56 € (38 mm × 25 m – 16,94 €, bet per siaura) |
+| Kieta aliuminio juosta, 50–60 mm | ~15 m (imti ≥20 m) | Kainos nerasta; e-plastena ištraukose nesimatė |
+| EPDM porolono stiklinimo juosta (~3–5 × 20–30 mm) | ~35 m | Po lakštais ant gegnių ir juostelių bei po dangteliais; kainos nerasta |
+| EPDM žiedas arba juosta viršūnei | ~1 m | – |
+| Aluminio lakštas 1–1,5 mm (pvz., 1000×2000) arba skardininko lenkti dangteliai | 1 | Dangteliai + gaubtas |
+| Obliuotas 70×70 C24/KVH | ~8,5 m (pvz., 3 × 3 m) | 6 gegnės + bandomoji |
+| Obliuota lentjuostė 45×70 | ~6 m (pvz. 2 × 3 m) | 6 juostelės |
+| Mazgo ruošinys 150×200 arba 200×200 | 1 × ~17 cm | – |
+| Konstrukciniai varžtai 6×140 | 12 (+atsarga) | Gegnė–mazgas |
+| Konstrukciniai varžtai Ø6–8×120–160, iš dalies sriegiuoti | 12–18 | Gegnės pėda–rėmas |
+| Briaunuoti plieniniai kampuočiai ≥70×70 + inkariniai varžtai | 6 + ~60 | Gegnės pėda |
+| Plieninės kampo plokštelės rėmo kampams | 6 | Rėmo tempimas 0,3–0,5 kN |
+| Cinkuotos plokštelės mazgui (nebūtina) | 6 | – |
+| Varžtai 5×100–120 | 18 | Juostelės–rėmas |
+| A2/A4 varžtai Ø4,2–4,8×70 su EPDM poveržle | 24 (+6) | Dangteliai, per tarpą tarp lakštų |
+| A2/A4 varžtas 6×160 su EPDM poveržle arba M6 sriegiuotas strypas + gaubtinė veržlė | 1 | Viršūnės gaubtas |
+| Neutralus, polikarbonatui tinkamas silikonas | 1–2 tūbelės | Ne acetoksinis |
+| Medienos impregnantas + lauko dažai | 1 komplektas | Visos plokštumos ir galai |
+| Diskinio pjūklo diskas 60+ dantų, kreipiančioji | 1 | Polikarbonatui |
+| Termopoveržlės | 0 | Nereikia, nes lakštas negręžiamas (jei prireiktų – ~0,36 €/vnt. [euroliux.lt](https://euroliux.lt/Plastikin%C4%97-termopover%C5%BEl%C4%97-skaidri)) |
+
+## Darbų eiga per septyniolika žingsnių
+
+| Nr. | Darbas | Kontrolė / skaičiai |
+|---|---|---|
+| 1 | Išmatuokite rėmą: 6 išorines ir 6 vidines kraštines, 3 įstrižaines, plotį ir lygumą | Išorė 101, vidus 93 cm; įstrižainės 202 / 186 cm; plotis 6,9 ar 10 cm; lygumas ±2 mm |
+| 2 | Raskite centrą trimis virvėmis tarp priešingų kampų | Virvės turi susikirsti viename taške; jei ne, šešiakampis netaisyklingas |
+| 3 | Sutvirtinkite rėmo kampus ir pritvirtinkite rėmą prie stogo; patikrinkite pakylą ir apšiltinimą | Plokštelės kampuose; pakyla ≥150 mm virš stogo |
+| 4 | Medieną aklimatizuokite, išobliuokite iki 70×70; padarykite mazgą | 14 cm per plokštumas, 16 cm aukščio, centro skylė, plokštumų centro linijos |
+| 5 | Nusklembkite gegnių ruošinius visu ilgiu | 17,7° po du kartus, kraštai 11 mm žemiau keteros |
+| 6 | Išpjaukite bandomąją gegnę | Ketera 110,4; apačia 103,0; pjūviai 33,6°; atrama 6,1; uodega 4,3 cm |
+| 7 | Pastatykite laikiną stovą su atotampomis, uždėkite mazgą | Mazgo apačia 47,5, viršus 63,5 cm virš rėmo; vertikalumas; plokštumos atsuktos į kampus |
+| 8 | Pritaikykite bandomąją gegnę, jei reikia pataisykite ir nukopijuokite 5 kartus | Atrama visu plotu ant rėmo, mazgo plokštuma be tarpų |
+| 9 | Montuokite gegnes priešingomis poromis (0/180°, 60/240°, 120/300°): pirma lengvai prie mazgo, tada pėdą | Lygūs atstumai nuo mazgo iki kampų; tada galutinai prisukite ir uždėkite kampuočius |
+| 10 | Pagaminkite ir pritaikykite juosteles | 45 mm pločio, 3,0/6,45 cm, 37,45°, 92,9 cm, 30° galai; liniuotė nuo keteros iki nuožulnos nesvyruoja |
+| 11 | (Nebūtina) tarpinės gegnės | 24,6° pjūviai, plokščias viršus plokštumoje P |
+| 12 | Nuimkite stovą, dar kartą patikrinkite įstrižaines ir plokštumų lygumą | – |
+| 13 | Nudažykite visą medieną ir leiskite išdžiūti | Visos plokštumos ir galų mediena |
+| 14 | Supjaustykite lakštą: pirmą trikampį pritaikykite ir naudokite kaip šabloną | 104,5 × 114,0 × 125,4 cm; −8 cm viršūnė; šonai −3 mm; drožles išpūsti |
+| 15 | Užklijuokite juostas ir paruoškite profilius | Briaunos ir viršūnė – kieta Al juosta; pagrindas – kvėpuojanti; U/F su skylutėmis kas ~30 cm |
+| 16 | Priklijuokite EPDM ant gegnių ir juostelių, sudėkite lakštus su U/F, laikinai prilaikykite; uždėkite briaunų dangtelius | Tarpas ties gegne 5–6 mm; varžtai kas ~30 cm per tarpą; nepriveržti |
+| 17 | Uždėkite EPDM žiedą ir viršūnės gaubtą, prisukite jį į mazgą; nuimkite plėvelę, patikrinkite skylutes ir apskardinimą | Dirbti nuo kopėčių ar platformos, ne nuo lakštų |
+
+## Ką dar patikrinti prieš pirmą pjūvį
+
+| Ką patikrinti | Kodėl tai svarbu | Kaip |
+|---|---|---|
+| **Rėmo plotis: 6,9 ar 10 cm** | Iš 101/93 cm išeina 6,93 cm; jei plotis 10 cm, vidinė kraštinė turėtų būti ~89,5 cm. Su rekomenduojama 45 mm juostele niekas nesikeičia (keistųsi tik per visą plotį daroma juostelė: 8,3 → 10,7 cm). Gegnės atrama lieka tokia pati, nes gegnė virš vidinio kampo būtų 2,3 cm virš rėmo | Išmatuoti statmenai kraštinei keliose vietose ir vidinę kraštinę |
+| **Ar šešiakampis taisyklingas** | Visi pjūviai skaičiuoti taisyklingam šešiakampiui | 6 + 6 kraštinės, 3 įstrižainės (202/186 cm), virvių susikirtimas, lygumas ±2 mm |
+| **Vietos sniego zona** | Vilniaus dokumentas nurodo I zoną (1,2), kitas šaltinis – II zoną (1,6) | Oficialus LST EN 1991-1-3 NA žemėlapis arba konstruktorius; abejojant – II zona ir tarpinės gegnės |
+| **Lakšto struktūra, UV pusė, garantija, PVM** | Ištraukose nesimatė sienelių skaičiaus, UV žymėjimo, garantijos; nežinoma, ar kaina su PVM | Paklausti e-plastena; paprašyti techninio lapo |
+| **Ar galima pirkti ~3,5 m atraižą ir kaip vežti 6 m lakštą** | Pilnas lakštas ~38 kg ir 6 m ilgio | Paklausti pardavėjo |
+| **F20 profilio likutis ir lentynos ilgis; ar yra 20 mm U** | Nuo to priklauso karnizo prispaudimas | Pasiteirauti; jei nėra – kitas tiekėjas ar skardininkas |
+| **Kieta aliuminio juosta 50–60 mm** | e-plastena ištraukose matėsi tik kvėpuojančios juostos | Statybinių prekių parduotuvės |
+| **Ar staklės perpjauna 70 mm aukštį ir ~57 mm nuožulną** | Gegnių galams ir juostelėms | Jei ne – pjauti iš dviejų pusių, juostiniu pjūklu ar dirbtuvėje |
+| **Pagrindinio stogo tipas ir pakylos aukštis** | Nuo to priklauso apskardinimas; reikia ≥150 mm | Apžiūrėti; numatyti apšiltinimą |
+| **Vėjo poveikis** | Lietuviškos bazinės vėjo greičio reikšmės nerasta; atvira vieta ar pajūris didina siurbimą | Konstruktorius arba Dlubal LST EN 1991-1-4 žemėlapis |
+| **Galutinis aukštis: 70 cm tinka?** | Jei ne, reikia varianto su 64 cm kilimu (kampai ~1° kitokie) | Nuspręsti prieš pjaunant gegnes |
+| **Drėgmė patalpoje po stoglangiu** | Esant >55–60 % santykinei drėgmei ir šalčiui lakštas rasos | Numatyti ištraukimą ar vėdinimą |
+
+## Išvados
+
+Pagrindinis šio projekto sprendimas yra vienas skaičius – 3 cm. Pakelta lakštų plokštuma suderina tris dalykus, kurie paprastai konfliktuoja. 70×70 gegnės vertikalus aukštis (8,4 cm) ir rėmo kampo gylis (8 cm) leidžia gegnei atsiremti visu atraminiu pjūviu be išpjovos. Gegnės uodega ir juostelių kampai susitinka viename taške. O karnizo juostelė tampa paprastu trapeciniu tašeliu. Todėl ir pjovimo sąrašas toks trumpas. Kitaip tariant, tikslūs du lauko matavimai (rėmo plotis ir taisyklingumas) šiam stoglangiui svarbesni už bet kurį kampą. Jei jie nepasitvirtins, keisis juostelės, o ne visa schema.
+
+Antroji išvada – kur slypi rizika. Ne lakšte ir ne gegnėse: abu dirba su didele atsarga. Rizika yra kraštuose ir jungtyse. Piramidėje, kur kanalai eina išilgai aukštinės, įprasta taisyklė „viršus kietai, apačia kvėpuojančiai“ reiškia, kad kieta juosta klijuojama ant įstrižų briaunų, o ne ant horizontalaus krašto. Lakštas visur laikomas tik prispaudimu, be skylių. O rėmo kampai iš tikrųjų veikia kaip tempiamas žiedas. Kadangi visi žiniatinklio šaltiniai matyti tik per paieškos ištraukas, prieš perkant būtina patvirtinti kainas, profilių matmenis, lakšto struktūrą ir vietos sniego zoną. Geometriją galima naudoti tokią, kokia pateikta.

diff --git a/STOGLANGIS.md b/STOGLANGIS.md
@@ -1,5 +1,5 @@
 # Šešiakampis stoglangis iš polikarbonato (patikrinta ir pataisyta)
-Vaizdai: `stoglangis-3d-zingsniai.png` (3D + surinkimas), `stoglangis-pjovimas.png` (pjovimo brėžiniai).
+Vaizdai: `stoglangis-3d-zingsniai.png` (3D + surinkimas), `stoglangis-pjovimas.png` (pjovimo brėžiniai), `stoglangis-mazgai-pirkiniai.png` (mazgai iš arti, pirkiniai, patikrinimas).
 Tyrimo ataskaita: `reports/Šešiakampis polikarbonato stoglangis.md`
 
 ## Esamas rėmas
@@ -12,9 +12,9 @@ Tyrimo ataskaita: `reports/Šešiakampis polikarbonato stoglangis.md`
 - Gegnės nusklembimas 17,7° į abi puses (tan β = sin 33,56° / tan 60°)
 
 ## Pjovimo sąrašas
-- 6 briaunų gegnės, tašas 70×70 (ruošinys 120 cm): viršus 110,4 cm, apačia 103,0 cm; viršutinis pjūvis 33,6° nuo statmens; atramos pjūvis horizontalus 6,1 cm; galas 4,3 cm aukščio, 2 cm iki rėmo kampo
-- Centrinis mazgas: šešiakampis 14 cm tarp plokštumų, 16 cm aukščio, viršus 63,5 cm virš rėmo (ne aukščiau 63,8)
-- 6 atraminės juostelės: trapecija, plotis = rėmo plotis (6,9), aukštis išorėje 3,0, viduje 8,3 (rėmas 10 cm → 10,7); išorinis kraštas 92,9 cm, galai 60°
+- 6 briaunų gegnės, tašas 70×70 (ruošinys 120 cm, detalė užima 112,8 cm; atramos pjūvį pjauti rankiniu pjūklu): viršus 110,4 cm, apačia 103,0 cm; viršutinis pjūvis 33,6° nuo statmens; atramos pjūvis horizontalus 6,1 cm; galas 4,3 cm aukščio, 2 cm iki rėmo kampo
+- Centrinis mazgas: šešiakampis 14 cm tarp plokštumų, 16 cm aukščio (atraiža iš 150×200, plaušai vertikaliai – iš 150×150 neišeis), viršus 63,5 cm virš rėmo (ne aukščiau 63,8)
+- 6 atraminės juostelės iš 45×70: trapecija 4,5 cm pločio, aukštis išorėje 3,0, viduje 6,45; išorinis kraštas 92,9, vidinis 87,7 cm, galai 60° (tinka bet kokiam rėmo pločiui)
 - 6 polikarbonato trikampiai: pagrindas 104,5, aukštis 114,0, šonai 125,4 cm, kampai 65,4/65,4/49,2°; viršūnė nupjauta 8 cm; šonai 3 mm į vidų
 
 ## Polikarbonatas
@@ -23,6 +23,9 @@ Tyrimo ataskaita: `reports/Šešiakampis polikarbonato stoglangis.md`
 - Kanalai išilgai trikampio aukščio, UV pusė į viršų
 - Kanalų viršutiniai galai yra briaunose → šonai ir viršus SANDARI Al juosta; apačia perforuota juosta + Al U/F profilis su skylutėmis (juostos 50–60 mm pločio)
 - Varžtų per lapą nesukti; tarpas briaunoje 5–6 mm; plėtimasis ~3–4 mm/m
+
+## Kiekiai
+- Sandari Al juosta ~15 m (pirkti ≥ 20 m), perforuota ~6,3 m, EPDM ~19 m ant karkaso (+ po dangteliais, iš viso ~35 m)
 
 ## Kiti priedai
 - Al briaunų dangteliai lenkti 35,4° ant EPDM, varžtai su EPDM poveržlėmis kas ~30 cm per tarpą į gegnę
